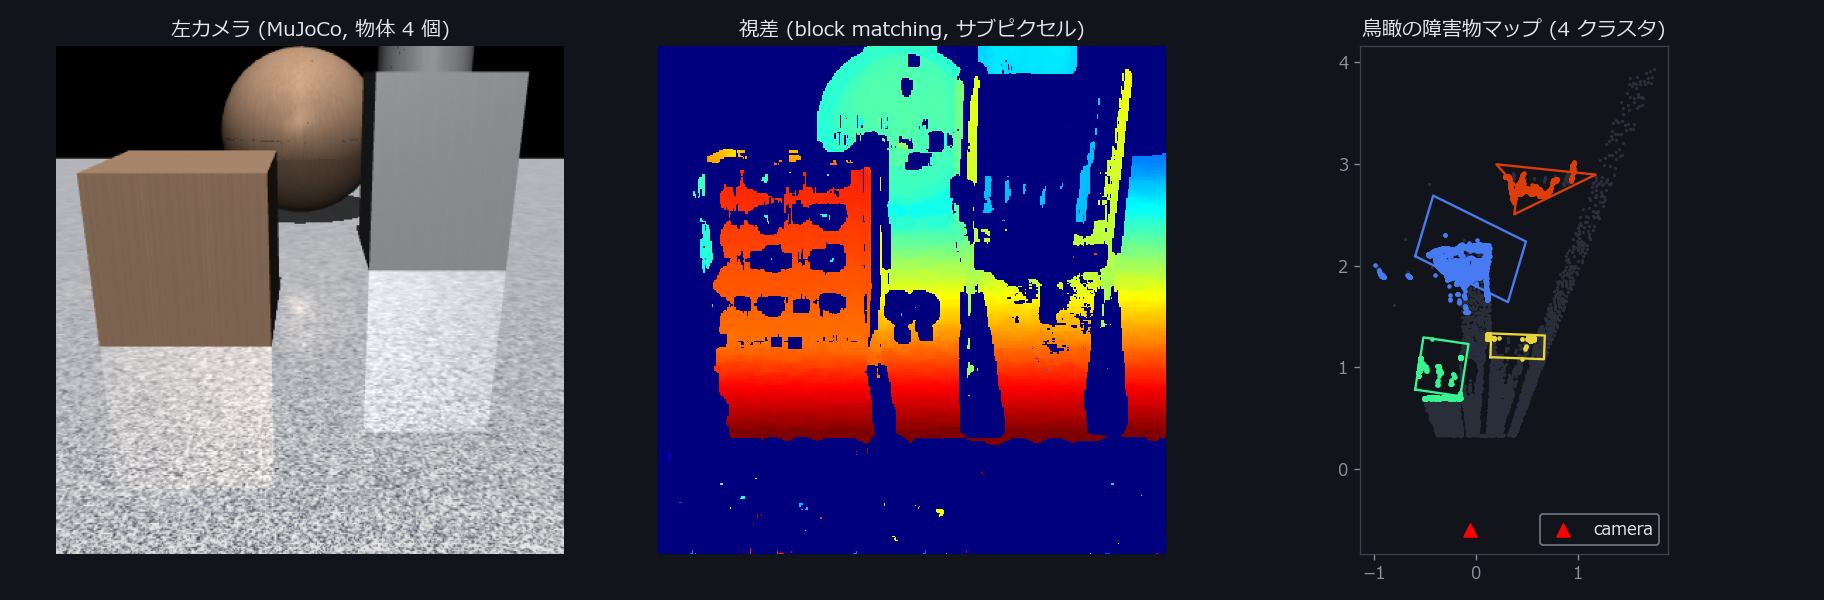
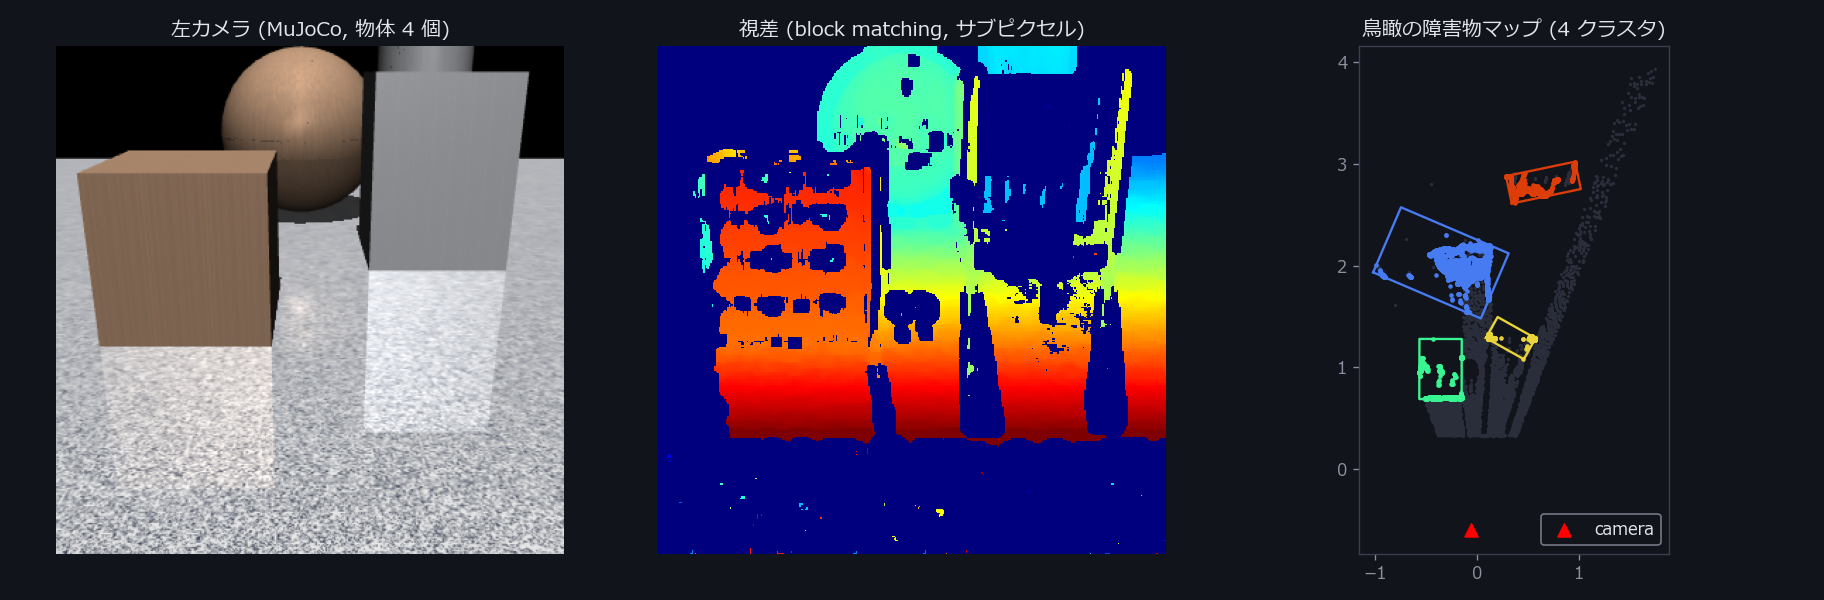
auto: gen_industrial_gallery.py 編集前 (2026-08-30 16:39)

Changed region(s): [[0.75, 0.33, 0.8438, 0.66], [0.8438, 0.87, 0.9375, 0.9], [0.8125, 0.27, 0.875, 0.33]]

diff --git a/tools/gen_industrial_gallery.py b/tools/gen_industrial_gallery.py
@@ -923,8 +923,8 @@ def subject_stereo_obstacles(log=print) -> dict:
     return {
         "file": "phai_stereo_obstacles.png",
         "title": "ステレオ視差 → 3D 復元 → 鳥瞰障害物マップ",
-        "ops": ["disparity_subpixel (stereo)", "colorize_disparity",
-                "euclidean_clusters", "obb"],
+        "ops": ["disparity_subpixel (stereo)", "disparity_confidence (stereo)",
+                "colorize_disparity", "euclidean_clusters", "fit_rectangle2"],
         "data": "MuJoCo レンダのステレオペア (基線 12cm, 物体 4 個 = 真値)",
         "synthetic": True,
         "caption": ("2 台のカメラ画像のズレ(視差)をブロックマッチングで求め、"

diff --git a/docs/articles/assets/_industrial_snippet.md b/docs/articles/assets/_industrial_snippet.md
@@ -76,7 +76,7 @@
 
 (フル解像度: https://raw.githubusercontent.com/furuse-kazufumi/fullseye/master/docs/articles/assets/phai_stereo_obstacles.png )
 
-2 台のカメラ画像のズレ(視差)をブロックマッチングで求め、Z = f·b/d で奥行きに変換して 3D 点群へ。高さ 10cm 超の点をクラスタリングすると 4 物体が 4 クラスタに分かれ、鳥瞰の障害物マップができる。移動ロボットの視覚の最短経路。 使用 op: disparity_subpixel (stereo), colorize_disparity, euclidean_clusters, obb。データ: MuJoCo レンダのステレオペア (基線 12cm, 物体 4 個 = 真値)。
+2 台のカメラ画像のズレ(視差)をブロックマッチングで求め、Z = f·b/d で奥行きに変換して 3D 点群へ。高さ 10cm 超の点をクラスタリングすると 4 物体が 4 クラスタに分かれ、鳥瞰の障害物マップができる。移動ロボットの視覚の最短経路。 使用 op: disparity_subpixel (stereo), disparity_confidence (stereo), colorize_disparity, euclidean_clusters, fit_rectangle2。データ: MuJoCo レンダのステレオペア (基線 12cm, 物体 4 個 = 真値)。
 
 ## bin picking 実動作 — 探索・把持・搬出のフルサイクル
 
